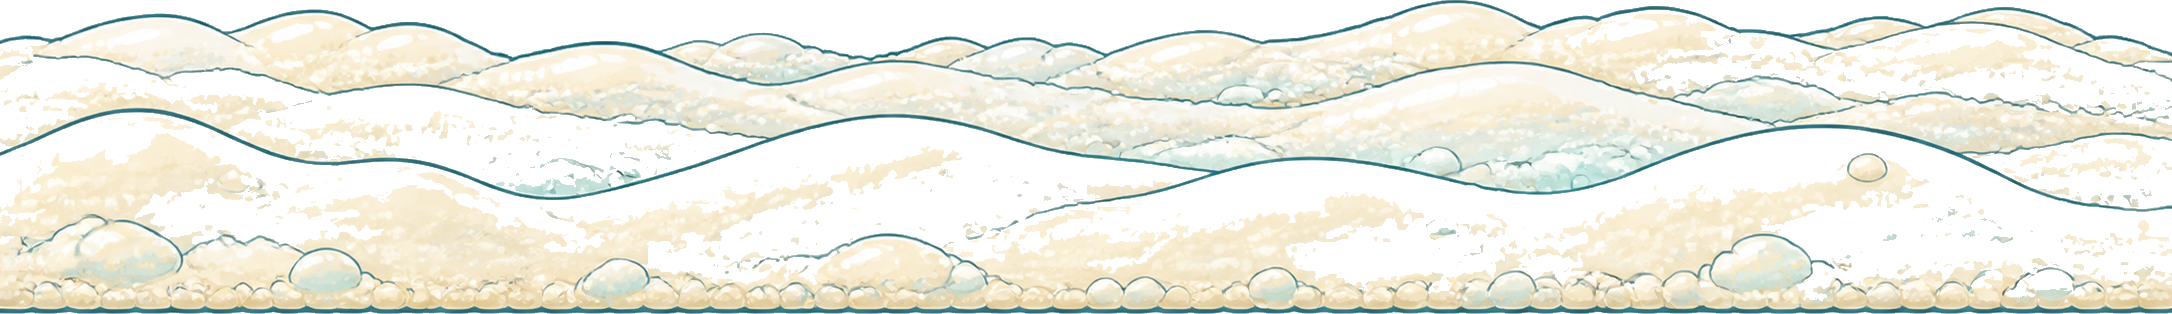
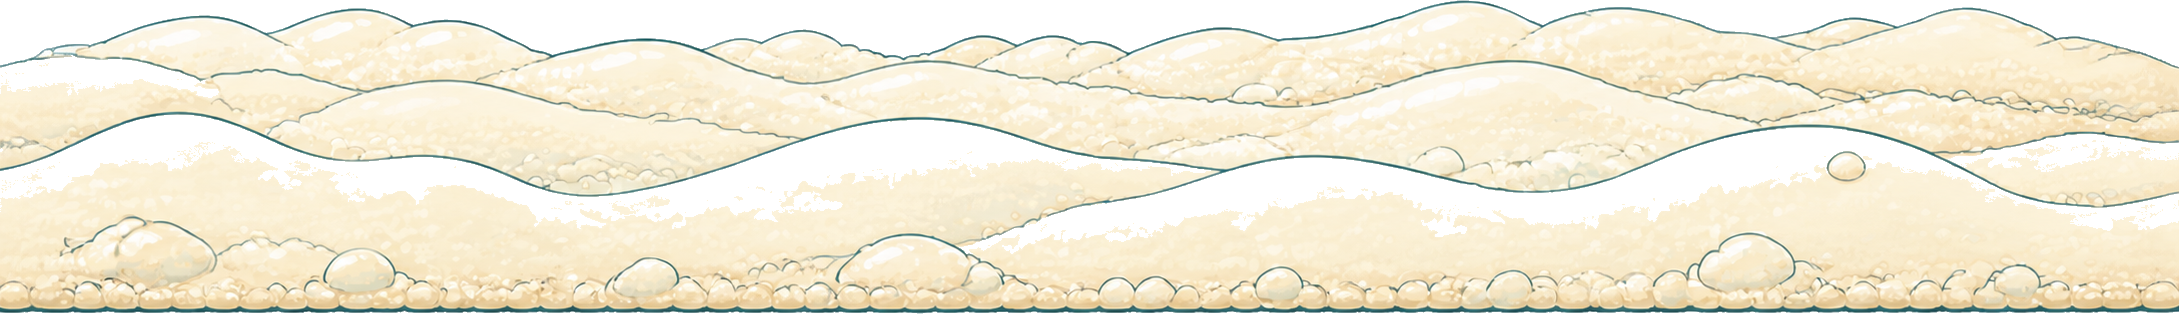
Add substrate depth layer and refine white sand

diff --git a/src/decorationOverlay.ts b/src/decorationOverlay.ts
@@ -4,6 +4,11 @@ import {DECOR_ASSETS} from './itemAssets';
 
 const layer=document.querySelector<HTMLDivElement>('#decor-overlay')!;
 const backLayer=document.querySelector<HTMLDivElement>('#decor-overlay-back')!;
+const substrateLayer=document.querySelector<HTMLDivElement>('#substrate-overlay')!;
+const substrateBackLayer=document.createElement('div');
+substrateBackLayer.id='decor-overlay-substrate-back';
+substrateBackLayer.className='decor-layer';
+substrateLayer.before(substrateBackLayer);
 const limits:Record<Decoration['type'],[number,number]>={plant:[.45,2.6],coral:[.45,2.6],stones:[.5,2.8],driftwood:[.5,2.5],crystal:[.55,2.4],castle:[.65,2.4],aerator:[.45,2.8],filter:[.45,2.6],light:[.45,2.8],vallisneria:[.4,3.2],basalt:[.45,3.2],graniteLarge:[.35,3.4],slateLarge:[.35,3.4],sandstoneLarge:[.35,3.4],treeBroadleaf:[.3,3.4],treeWeeping:[.3,3.4],plantBroadleafLarge:[.35,3.4],grassMeadowLarge:[.3,3.4]};
 const nodes=new Map<string,HTMLButtonElement>();
 let selected:string|null=null,editing=false,dragging:string|null=null;
@@ -12,7 +17,7 @@ const current=()=>store.state.decorations.find(d=>d.id===selected);
 
 const editor=document.createElement('div');
 editor.id='decor-editor';
-editor.innerHTML=`<div class="decor-toolbar"><span class="decor-title" title="ドラッグして移動">⠿ 位置・サイズを調整</span><div class="decor-toolbar-actions"><button data-act="smaller">− 小さく</button><button data-act="larger">＋ 大きく</button><button data-act="rotate">↻ 回転</button><button data-act="flip">↔ 反転</button><button data-act="back">奥へ</button><button data-act="front">手前へ</button><button data-act="store">収納</button><button data-act="done">完了</button></div></div>`;
+editor.innerHTML=`<div class="decor-toolbar"><span class="decor-title" title="ドラッグして移動">⠿ 位置・サイズを調整</span><div class="decor-toolbar-actions"><button data-act="smaller">− 小さく</button><button data-act="larger">＋ 大きく</button><button data-act="rotate">↻ 回転</button><button data-act="flip">↔ 反転</button><button data-act="substrate-back">砂利の奥へ</button><button data-act="back">魚の奥へ</button><button data-act="front">魚の手前へ</button><button data-act="store">収納</button><button data-act="done">完了</button></div></div>`;
 document.querySelector('#app')!.append(editor);
 const toolbar=editor.querySelector<HTMLDivElement>('.decor-toolbar')!;
 const dragHandle=editor.querySelector<HTMLElement>('.decor-title')!;
@@ -20,11 +25,11 @@ let toolbarDrag:{pointerId:number;dx:number;dy:number}|null=null;
 
 function position(node:HTMLElement,d:Decoration){node.style.left=`${d.x*100}%`;node.style.top=`${d.y*100}%`;node.style.zIndex=String(10+d.z);node.style.transform=`translate(-50%,-100%) rotate(${d.rotation}deg) scale(${d.flipped?-d.scale:d.scale},${d.scale})`;node.classList.toggle('selected',editing&&d.id===selected);node.hidden=!d.placed}
 function announce(){window.dispatchEvent(new CustomEvent('decor-selection',{detail:selected}))}
-function render(){const live=new Set(store.state.decorations.map(d=>d.id));for(const[id,node]of nodes)if(!live.has(id)){node.remove();nodes.delete(id)}for(const d of store.state.decorations){let node=nodes.get(d.id);if(!node){node=document.createElement('button');node.className=`tank-decor decor-${d.type}`;node.dataset.id=d.id;node.ariaLabel='装飾を移動';node.innerHTML=`<img src="${DECOR_ASSETS[d.type]}" draggable="false" alt="">`;node.addEventListener('pointerdown',e=>{if(!editing)return;e.preventDefault();selected=d.id;dragging=d.id;node!.setPointerCapture(e.pointerId);render();announce()});node.addEventListener('pointermove',e=>{if(dragging!==d.id)return;const box=layer.getBoundingClientRect();store.updateDecor(d.id,{x:clamp((e.clientX-box.left)/box.width,.05,.95),y:clamp((e.clientY-box.top)/box.height,.12,.96)})});node.addEventListener('pointerup',()=>dragging=null);node.addEventListener('pointercancel',()=>dragging=null);nodes.set(d.id,node)}const target=d.z<=0?backLayer:layer;if(node.parentElement!==target)target.append(node);position(node,d)}layer.classList.toggle('is-editing',editing);backLayer.classList.toggle('is-editing',editing);editor.classList.toggle('is-editing',editing);toolbar.classList.toggle('has-selection',!!current());editor.querySelector('.decor-title')!.textContent=current()?'位置・サイズを調整':'装飾を選択'}
+function render(){const live=new Set(store.state.decorations.map(d=>d.id));for(const[id,node]of nodes)if(!live.has(id)){node.remove();nodes.delete(id)}for(const d of store.state.decorations){let node=nodes.get(d.id);if(!node){node=document.createElement('button');node.className=`tank-decor decor-${d.type}`;node.dataset.id=d.id;node.ariaLabel='装飾を移動';node.innerHTML=`<img src="${DECOR_ASSETS[d.type]}" draggable="false" alt="">`;node.addEventListener('pointerdown',e=>{if(!editing)return;e.preventDefault();selected=d.id;dragging=d.id;node!.setPointerCapture(e.pointerId);render();announce()});node.addEventListener('pointermove',e=>{if(dragging!==d.id)return;const box=layer.getBoundingClientRect();store.updateDecor(d.id,{x:clamp((e.clientX-box.left)/box.width,.05,.95),y:clamp((e.clientY-box.top)/box.height,.12,.96)})});node.addEventListener('pointerup',()=>dragging=null);node.addEventListener('pointercancel',()=>dragging=null);nodes.set(d.id,node)}const target=d.z<=-10?substrateBackLayer:d.z<=0?backLayer:layer;if(node.parentElement!==target)target.append(node);position(node,d)}layer.classList.toggle('is-editing',editing);backLayer.classList.toggle('is-editing',editing);substrateBackLayer.classList.toggle('is-editing',editing);editor.classList.toggle('is-editing',editing);toolbar.classList.toggle('has-selection',!!current());editor.querySelector('.decor-title')!.textContent=current()?'位置・サイズを調整':'装飾を選択'}
 
 window.addEventListener('decor-mode',e=>{editing=(e as CustomEvent<boolean>).detail;if(!editing){selected=null;dragging=null}render();announce()});
 window.addEventListener('decor-pick',e=>{selected=(e as CustomEvent<string>).detail;editing=true;render();announce()});
-window.addEventListener('decor-action',e=>{const action=(e as CustomEvent<string>).detail,d=current();if(!d)return;const[min,max]=limits[d.type];if(action==='smaller')store.updateDecor(d.id,{scale:clamp(d.scale-.1,min,max)});if(action==='larger')store.updateDecor(d.id,{scale:clamp(d.scale+.1,min,max)});if(action==='rotate')store.updateDecor(d.id,{rotation:(d.rotation+15)%360});if(action==='flip')store.updateDecor(d.id,{flipped:!d.flipped});if(action==='back')store.updateDecor(d.id,{z:clamp(d.z-1,-20,20)});if(action==='front')store.updateDecor(d.id,{z:clamp(d.z+1,-20,20)});if(action==='store'){store.storeDecor(d.id);selected=null;announce()}render()});
+window.addEventListener('decor-action',e=>{const action=(e as CustomEvent<string>).detail,d=current();if(!d)return;const[min,max]=limits[d.type];if(action==='smaller')store.updateDecor(d.id,{scale:clamp(d.scale-.1,min,max)});if(action==='larger')store.updateDecor(d.id,{scale:clamp(d.scale+.1,min,max)});if(action==='rotate')store.updateDecor(d.id,{rotation:(d.rotation+15)%360});if(action==='flip')store.updateDecor(d.id,{flipped:!d.flipped});if(action==='substrate-back')store.updateDecor(d.id,{z:-10});if(action==='back')store.updateDecor(d.id,{z:clamp(d.z-1,-20,20)});if(action==='front')store.updateDecor(d.id,{z:clamp(d.z+1,-20,20)});if(action==='store'){store.storeDecor(d.id);selected=null;announce()}render()});
 window.addEventListener('decor-restore',e=>{const id=(e as CustomEvent<string>).detail;store.placeDecor(id);selected=id;editing=true;render();announce()});
 toolbar.addEventListener('click',e=>{const action=(e.target as HTMLElement).closest<HTMLButtonElement>('[data-act]')?.dataset.act;if(!action)return;if(action==='done'){editing=false;selected=null;render();announce();window.dispatchEvent(new CustomEvent('decor-editor-done'));return}window.dispatchEvent(new CustomEvent('decor-action',{detail:action}))});
 dragHandle.addEventListener('pointerdown',e=>{e.preventDefault();const box=toolbar.getBoundingClientRect();toolbarDrag={pointerId:e.pointerId,dx:e.clientX-box.left,dy:e.clientY-box.top};dragHandle.setPointerCapture(e.pointerId);toolbar.classList.add('dragging')});

diff --git a/src/style.css b/src/style.css
@@ -139,5 +139,6 @@ body{background:radial-gradient(circle at 48% 15%,#fffdf4 0 24%,#f8eed8 70%,#ead
 .help-tip{position:relative;outline:none}.help-tip:after{content:attr(data-tooltip);position:absolute;z-index:90;left:50%;top:calc(100% + 8px);width:210px;padding:8px 10px;border:2px solid #76beae;border-radius:10px;background:#fff8e9;color:#315b69;box-shadow:0 8px 20px #23485d44;font-size:10px;font-weight:600;line-height:1.55;text-align:left;white-space:normal;pointer-events:none;opacity:0;visibility:hidden;transform:translate(-50%,-4px);transition:opacity .16s ease,transform .16s ease,visibility 0s linear .16s}.help-tip:hover:after,.help-tip:focus-visible:after,.help-tip:focus-within:after{opacity:1;visibility:visible;transform:translate(-50%,0);transition-delay:.18s}.resources>.help-tip:first-child:after{left:0;transform:translate(0,-4px)}.resources>.help-tip:first-child:hover:after,.resources>.help-tip:first-child:focus-visible:after{transform:translate(0,0)}.resources>.help-tip:nth-child(2):after{left:auto;right:0;transform:translate(0,-4px)}.resources>.help-tip:nth-child(2):hover:after,.resources>.help-tip:nth-child(2):focus-visible:after{transform:translate(0,0)}
 .food-flight.food-protein{background:#ffb45f}.food-flight.food-mineral{background:#70d9dc}.swimmer:has(img[src*="solarcrown"]),.swimmer:has(img[src*="grovewhale"]),.swimmer:has(img[src*="unicornloop"]){width:clamp(205px,20vw,295px);height:190px}.swimmer:has(img[src*="solarcrown"]) img,.swimmer:has(img[src*="grovewhale"]) img,.swimmer:has(img[src*="unicornloop"]) img{height:160px}.swimmer:has(img[src*="solarcrown"]) .fish-name,.swimmer:has(img[src*="grovewhale"]) .fish-name,.swimmer:has(img[src*="unicornloop"]) .fish-name{top:157px}
 #substrate-overlay{position:absolute;z-index:0;left:0;right:0;bottom:0;height:19%;pointer-events:none;background-position:center bottom;background-repeat:no-repeat;background-size:100% auto;filter:drop-shadow(0 -2px 2px #174b5126);transition:background-image .25s ease}.substrate-swatch{display:block;width:42px;height:32px;flex:0 0 42px;border:2px solid #fff;border-radius:9px;background-position:center bottom;background-repeat:no-repeat;background-size:cover;box-shadow:0 1px 3px #315b6955}.substrate-shop button.selected{border-color:#ef907b;background:#fff3e9}.substrate-pastel,#camera-stage[data-substrate="pastel"] #substrate-overlay{background-image:url('/assets/substrates/pastel-pebbles.png')}.substrate-whiteSand,#camera-stage[data-substrate="whiteSand"] #substrate-overlay{background-image:url('/assets/substrates/white-sand.png')}.substrate-riverPebble,#camera-stage[data-substrate="riverPebble"] #substrate-overlay{background-image:url('/assets/substrates/river-pebbles.png')}.substrate-blackGravel,#camera-stage[data-substrate="blackGravel"] #substrate-overlay{background-image:url('/assets/substrates/black-gravel.png')}
-#substrate-overlay{height:100%;background-position:center calc(100% + 14px)}
+#substrate-overlay{height:100%;background-position:center calc(100% + 34px)}
+#camera-stage #decor-overlay-substrate-back{position:absolute;inset:0;z-index:0;pointer-events:none;overflow:hidden}
 .tank-console .console-tabs button{font-size:14px}.tank-console .console-tabs small{font-size:8px}.tank-console .fish-title{grid-template-columns:61px minmax(0,1fr)}.tank-console .fish-title img{width:61px;height:47px}.tank-console .fish-title h2{font-size:19px}.tank-console .item-thumb{width:35px!important;height:35px!important}.tank-console .shop-thumb{width:34px;height:34px;flex-basis:34px}.tank-console .substrate-swatch{width:34px;height:26px;flex-basis:34px}.tank-console .species article{grid-template-columns:50px minmax(0,1fr) auto}.tank-console .species img{width:48px;height:37px}.tank-console .home-fish img{width:56px;height:40px}.tank-console .decor-list{grid-template-columns:repeat(2,minmax(0,1fr))}.tank-console .decor-list span img{width:22px;height:22px}.tank-console .shopgrid button{grid-template-columns:minmax(0,1fr) auto;column-gap:7px;padding:10px}.tank-console .shopgrid button b{min-width:0;gap:6px;font-size:10px;line-height:1.35}.tank-console .home-fish b,.tank-console .species b,.tank-console .decor-list b{font-size:9px}.tank-console .coin-price{display:inline-flex;align-items:center;justify-content:flex-end;gap:3px;white-space:nowrap;font-size:10px;font-weight:700}.tank-console .coin-price i{font-size:11px;font-style:normal}.tank-console .shopgrid em{min-width:0;white-space:nowrap}
